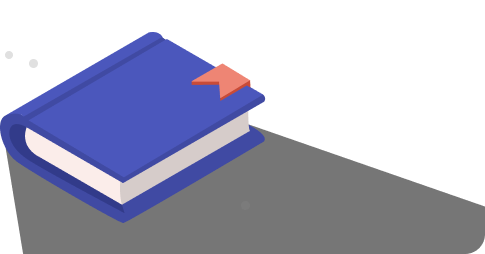
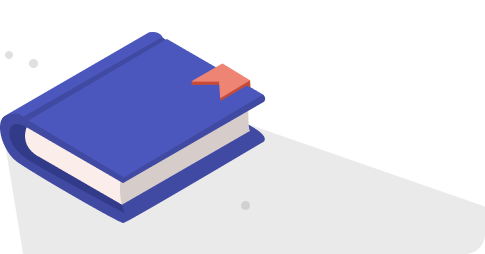
design: main, addbook page svg 업데이트

Changed region(s): [[0.0, 0.4961, 1.0, 1.0]]

diff --git a/src/components/addBook/AddBookDefault.tsx b/src/components/addBook/AddBookDefault.tsx
@@ -1,15 +1,15 @@
 import styled from "styled-components";
 
-import { ImgGraphic } from "../../assets/images";
+import { ImgAddBooksSearch } from "../../assets/images";
 
 export default function AddBookDefault() {
   return (
     <StWrapper>
+      <img src={ImgAddBooksSearch} alt="그래픽 이미지입니다" />
       <StH3>
-        북스테어즈와 독서를 해봐요! <br></br>
-        어떤 책을 읽으시나요?
+        어떤 책을 읽으시나요? <br></br>
+        북스테어즈와 독서를 해봐요!
       </StH3>
-      <StImg src={ImgGraphic} alt="그래픽 이미지입니다" />
     </StWrapper>
   );
 }
@@ -23,17 +23,17 @@ const StWrapper = styled.section`
   height: calc(100% - 23.8rem);
 
   margin: 0 4rem 0 4rem;
+
+  & > img {
+    margin-bottom: 6.6rem;
+  }
 `;
 
 const StH3 = styled.h3`
-  ${({ theme }) => theme.fonts.header3}
-
-  color: ${({ theme }) => theme.colors.gray300};
-
   margin-bottom: 3.2rem;
-`;
 
-const StImg = styled.img`
-  width: 32rem;
-  height: 11.5rem;
+  text-align: center;
+
+  ${({ theme }) => theme.fonts.header4}
+  color: ${({ theme }) => theme.colors.gray300};
 `;

diff --git a/src/assets/images/index.ts b/src/assets/images/index.ts
@@ -1,3 +1,4 @@
+export { default as ImgAddBooksSearch } from "./addBookSearchImage.png";
 export { default as ImgAddBooks } from "./addBooksImage.png";
 export { default as ImgDevice } from "./deviceImage.png";
 export { default as ImgEmptyBook } from "./emptyBookImage.png";
